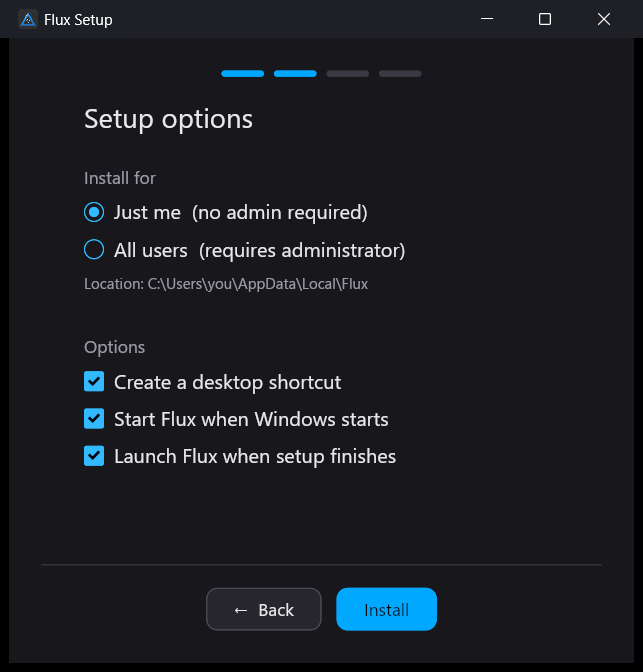
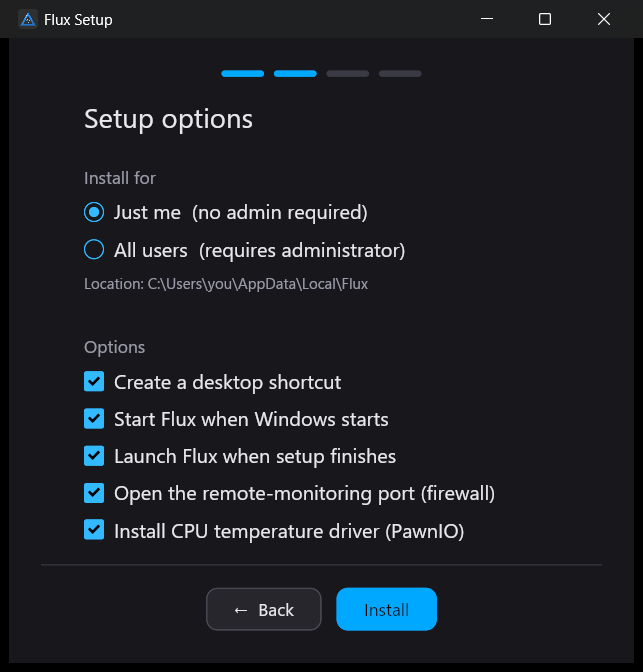
readme: v1.1.4 badge + refreshed installer Options screenshot

Changed region(s): [[0.1244, 0.7188, 0.7776, 0.8125]]

diff --git a/README.md b/README.md
@@ -8,7 +8,7 @@
 
 Real-time CPU, GPU, RAM, network, and disk stats — always on your desktop, never in your way.
 
-[![Release](https://img.shields.io/badge/release-v1.1.3-5898a0)](../../releases)
+[![Release](https://img.shields.io/badge/release-v1.1.4-5898a0)](../../releases)
 [![Platform](https://img.shields.io/badge/platform-Windows%2010%2F11-0078d4)](#requirements)
 [![Built with Rust](https://img.shields.io/badge/built%20with-Rust%20%2B%20iced-dea584)](https://iced.rs)
 [![License](https://img.shields.io/badge/license-Personal%20Use-c0392b)](LICENSE)